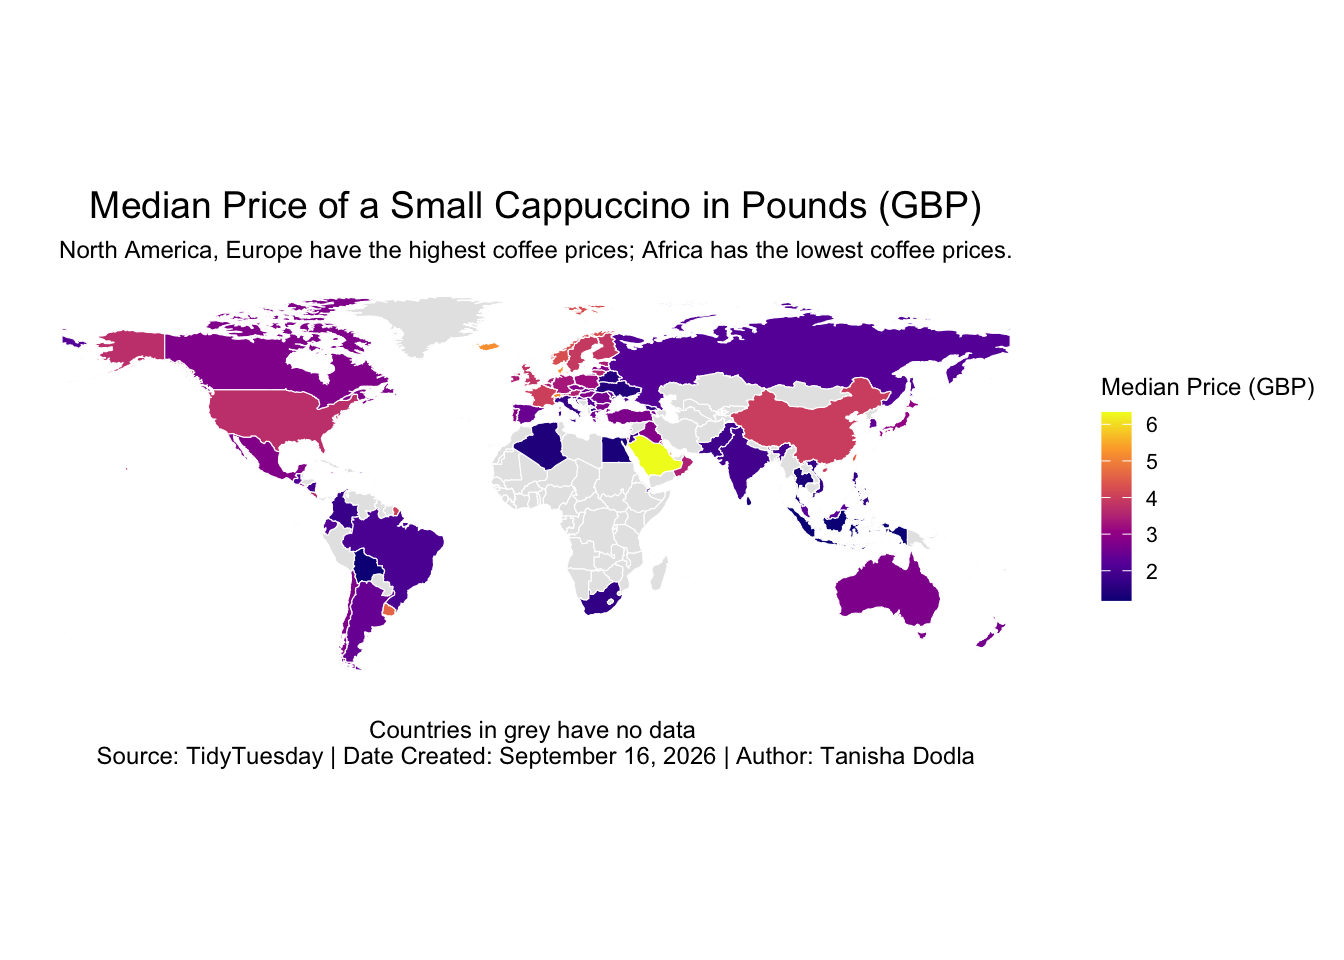
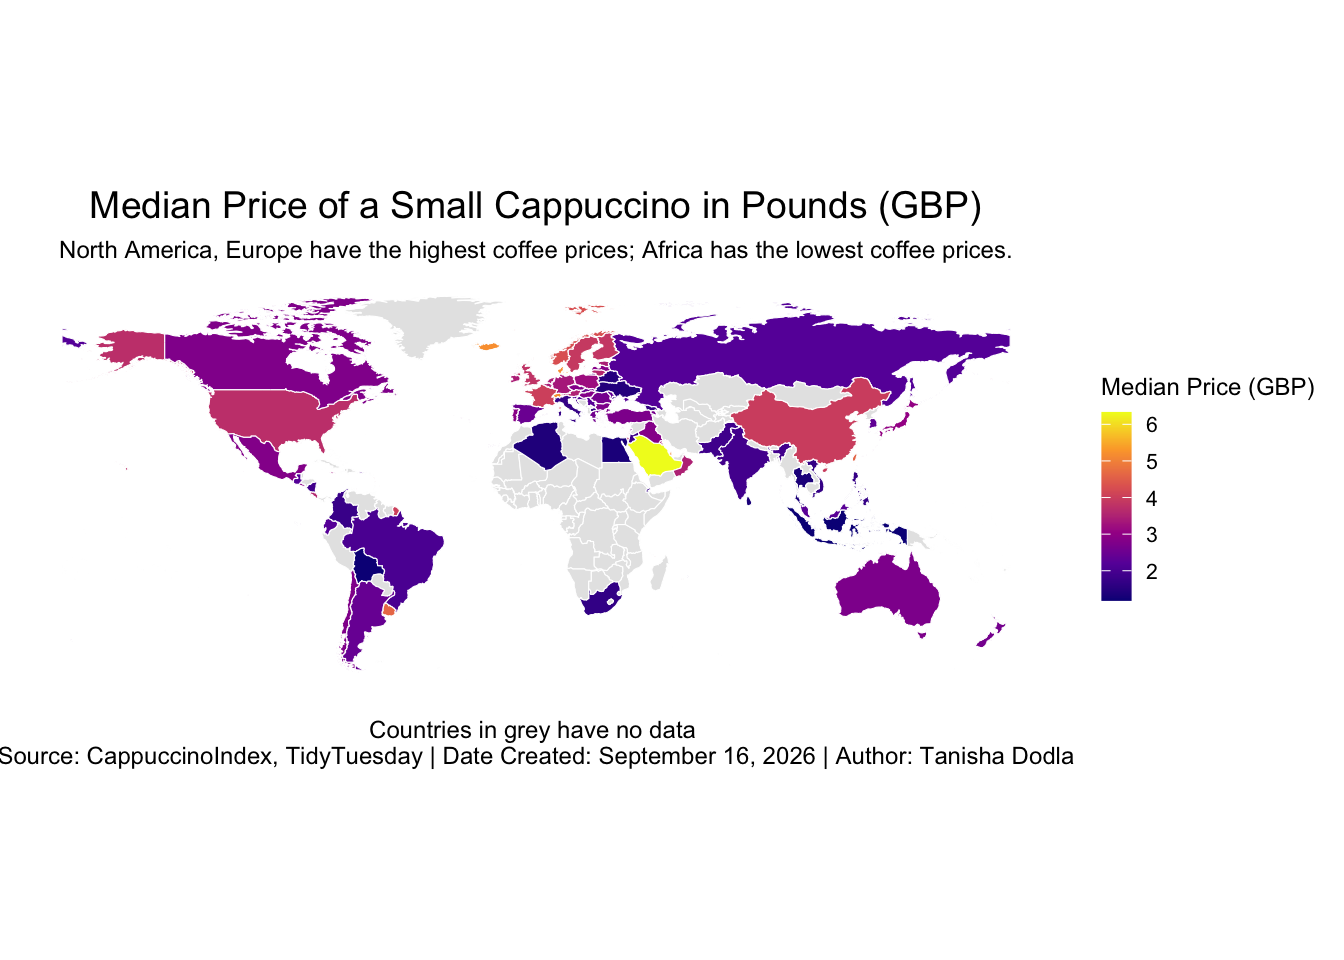
Built site for gh-pages

Changed region(s): [[0.0, 0.7812, 0.8125, 0.8125]]

diff --git a/tt/hw01-tt.html b/tt/hw01-tt.html
@@ -339,7 +339,7 @@ cookieconsent.run({
 <span id="cb2-23"><a href="#cb2-23"></a>    <span class="at">fill =</span> <span class="st">"Median Price (GBP)"</span>,</span>
 <span id="cb2-24"><a href="#cb2-24"></a>    <span class="at">subtitle =</span> <span class="st">"North America, Europe have the highest coffee prices; Africa has the lowest coffee prices."</span>,</span>
 <span id="cb2-25"><a href="#cb2-25"></a>    <span class="at">alt =</span> <span class="st">"This World Map shows the median price of a small cappuccino in GBP by country. Saudi Arabia has the highest median price. Europe and North America seem to have higher coffee prices in general."</span>, </span>
-<span id="cb2-26"><a href="#cb2-26"></a>    <span class="at">caption =</span> <span class="st">"Countries in grey have no data </span><span class="sc">\n</span><span class="st">Source: TidyTuesday | Date Created: September 16, 2026 | Author: Tanisha Dodla"</span></span>
+<span id="cb2-26"><a href="#cb2-26"></a>    <span class="at">caption =</span> <span class="st">"Countries in grey have no data </span><span class="sc">\n</span><span class="st">Source: CappuccinoIndex, TidyTuesday | Date Created: September 16, 2026 | Author: Tanisha Dodla"</span></span>
 <span id="cb2-27"><a href="#cb2-27"></a>  ) <span class="sc">+</span></span>
 <span id="cb2-28"><a href="#cb2-28"></a>  <span class="fu">theme</span>(</span>
 <span id="cb2-29"><a href="#cb2-29"></a>    <span class="at">plot.title =</span> <span class="fu">element_text</span>(</span>
@@ -1281,7 +1281,7 @@ window.document.addEventListener("DOMContentLoaded", function (event) {
 <span id="cb7-68"><a href="#cb7-68"></a><span class="in">    fill = "Median Price (GBP)",</span></span>
 <span id="cb7-69"><a href="#cb7-69"></a><span class="in">    subtitle = "North America, Europe have the highest coffee prices; Africa has the lowest coffee prices.",</span></span>
 <span id="cb7-70"><a href="#cb7-70"></a><span class="in">    alt = "This World Map shows the median price of a small cappuccino in GBP by country. Saudi Arabia has the highest median price. Europe and North America seem to have higher coffee prices in general.", </span></span>
-<span id="cb7-71"><a href="#cb7-71"></a><span class="in">    caption = "Countries in grey have no data \nSource: TidyTuesday | Date Created: September 16, 2026 | Author: Tanisha Dodla"</span></span>
+<span id="cb7-71"><a href="#cb7-71"></a><span class="in">    caption = "Countries in grey have no data \nSource: CappuccinoIndex, TidyTuesday | Date Created: September 16, 2026 | Author: Tanisha Dodla"</span></span>
 <span id="cb7-72"><a href="#cb7-72"></a><span class="in">  ) +</span></span>
 <span id="cb7-73"><a href="#cb7-73"></a><span class="in">  theme(</span></span>
 <span id="cb7-74"><a href="#cb7-74"></a><span class="in">    plot.title = element_text(</span></span>

diff --git a/pcl/pcl.html b/pcl/pcl.html
@@ -282,6 +282,7 @@ cookieconsent.run({
   <li><a href="#set-up-and-file-organization" id="toc-set-up-and-file-organization" class="nav-link active" data-scroll-target="#set-up-and-file-organization">Set-up and File Organization</a></li>
   <li><a href="#advanced-data-visualization" id="toc-advanced-data-visualization" class="nav-link" data-scroll-target="#advanced-data-visualization">Advanced Data Visualization</a></li>
   <li><a href="#advanced-spatial-visualization" id="toc-advanced-spatial-visualization" class="nav-link" data-scroll-target="#advanced-spatial-visualization">Advanced Spatial Visualization</a></li>
+  <li><a href="#advanced-data-wrangling" id="toc-advanced-data-wrangling" class="nav-link" data-scroll-target="#advanced-data-wrangling">Advanced Data Wrangling</a></li>
   </ul>
 </nav>
     </div>
@@ -318,6 +319,10 @@ cookieconsent.run({
 <section id="advanced-spatial-visualization" class="level2">
 <h2 class="anchored" data-anchor-id="advanced-spatial-visualization">Advanced Spatial Visualization</h2>
 <p><img src="pcl3.png" class="img-fluid"></p>
+</section>
+<section id="advanced-data-wrangling" class="level2">
+<h2 class="anchored" data-anchor-id="advanced-data-wrangling">Advanced Data Wrangling</h2>
+<p><img src="pcl4.png" class="img-fluid"></p>
 
 
 <!-- -->
@@ -968,7 +973,11 @@ window.document.addEventListener("DOMContentLoaded", function (event) {
 <span id="cb1-12"><a href="#cb1-12"></a></span>
 <span id="cb1-13"><a href="#cb1-13"></a><span class="fu">## Advanced Spatial Visualization</span></span>
 <span id="cb1-14"><a href="#cb1-14"></a></span>
-<span id="cb1-15"><a href="#cb1-15"></a><span class="al">![](pcl3.png)</span></span></code><button title="Copy to Clipboard" class="code-copy-button" data-in-quarto-modal=""><i class="bi"></i></button></pre></div>
+<span id="cb1-15"><a href="#cb1-15"></a><span class="al">![](pcl3.png)</span></span>
+<span id="cb1-16"><a href="#cb1-16"></a></span>
+<span id="cb1-17"><a href="#cb1-17"></a><span class="fu">## Advanced Data Wrangling</span></span>
+<span id="cb1-18"><a href="#cb1-18"></a></span>
+<span id="cb1-19"><a href="#cb1-19"></a><span class="al">![](pcl4.png)</span></span></code><button title="Copy to Clipboard" class="code-copy-button" data-in-quarto-modal=""><i class="bi"></i></button></pre></div>
 </div></div></div></div></div>
 </div> <!-- /content -->
 <footer class="footer">

diff --git a/index.html b/index.html
@@ -289,8 +289,8 @@ cookieconsent.run({
 </header><p>Welcome to my online portfolio for COMP/STAT112 course taken at <a href="https://www.macalester.edu/">Macalester College</a>. Please, use the side bar on the left for navigation.</p>
 <div class="cell">
 <div class="cell-output-display">
-<div class="wordcloud2 html-widget html-fill-item" id="htmlwidget-6d640fe46fea0d187557" style="width:100%;height:464px;"></div>
-<script type="application/json" data-for="htmlwidget-6d640fe46fea0d187557">{"x":{"word":["welcome","to","comp","stat","212","mac","st paul"],"freq":[10,2,8,8,8,6,6],"fontFamily":"Segoe UI","fontWeight":"bold","color":"random-dark","minSize":0,"weightFactor":18,"backgroundColor":"white","gridSize":0,"minRotation":-0.7853981633974483,"maxRotation":0.7853981633974483,"shuffle":true,"rotateRatio":0.4,"shape":"cardioid","ellipticity":0.65,"figBase64":null,"hover":null},"evals":[],"jsHooks":{"render":[{"code":"function(el,x){\n                        console.log(123);\n                        if(!iii){\n                          window.location.reload();\n                          iii = False;\n\n                        }\n  }","data":null}]}}</script>
+<div class="wordcloud2 html-widget html-fill-item" id="htmlwidget-d63c83e3d4ba6b32bbb6" style="width:100%;height:464px;"></div>
+<script type="application/json" data-for="htmlwidget-d63c83e3d4ba6b32bbb6">{"x":{"word":["welcome","to","comp","stat","212","mac","st paul"],"freq":[10,2,8,8,8,6,6],"fontFamily":"Segoe UI","fontWeight":"bold","color":"random-dark","minSize":0,"weightFactor":18,"backgroundColor":"white","gridSize":0,"minRotation":-0.7853981633974483,"maxRotation":0.7853981633974483,"shuffle":true,"rotateRatio":0.4,"shape":"cardioid","ellipticity":0.65,"figBase64":null,"hover":null},"evals":[],"jsHooks":{"render":[{"code":"function(el,x){\n                        console.log(123);\n                        if(!iii){\n                          window.location.reload();\n                          iii = False;\n\n                        }\n  }","data":null}]}}</script>
 </div>
 </div>
 

diff --git a/404.html b/404.html
@@ -7,7 +7,7 @@
 <meta name="viewport" content="width=device-width, initial-scale=1.0, user-scalable=yes">
 
 
-<title>quarto-inputbc2112caaaf4701c – COMP/STAT212 Portfolio</title>
+<title>quarto-inputfc37ae124e8371ea – COMP/STAT212 Portfolio</title>
 <style>
 code{white-space: pre-wrap;}
 span.smallcaps{font-variant: small-caps;}
